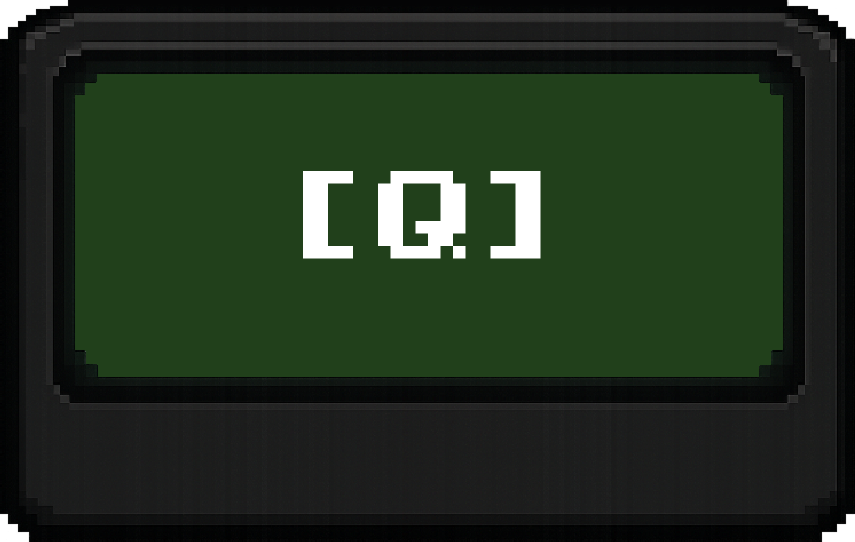
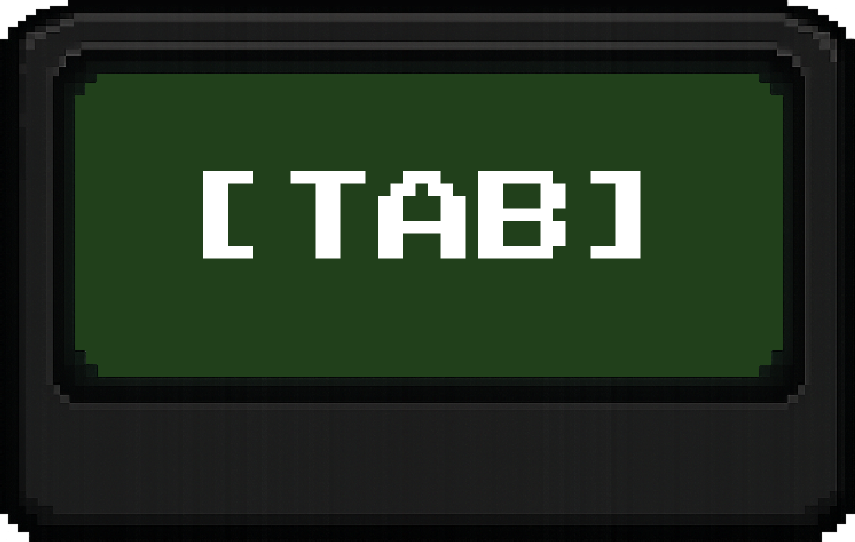
Guide Update: - Changed text in the image
Tutorial Update:
- Changed [Q] to [TAB] for Pager

Notifications Update:
- Changed [Q] to [TAB] for Pager

Changed region(s): [[0.3345, 0.2952, 0.7602, 0.5018], [0.2129, 0.2952, 0.3041, 0.5018]]

diff --git a/EarlyBirdGetsDaWorm/Tutorial.cpp b/EarlyBirdGetsDaWorm/Tutorial.cpp
@@ -137,9 +137,9 @@ void Tutorial_Initialize() {
 	tutFinished = false;
 
 	// Tutorial Dialogue Box
-	tutStartedBox = { 520.0f, 120.0f, 450.0f, 50.0f, false , 0.0f, 2.5f, 0.0f, "Great!\nPress [Q] to open your pager.", 25.0f, false};
+	tutStartedBox = { 520.0f, 120.0f, 450.0f, 50.0f, false , 0.0f, 2.5f, 0.0f, "Great!\nPress [TAB] to open your pager.", 25.0f, false};
 	tutPagerOpenedBox = { 600.0f, 310.0f, 400.0f, -150.0f, false , 0.0f, 2.5f, 0.0f, 
-		"This is your pager.\nIt shows :\n1. Patient Collection Room\n2. Patient Delivery Room\nPress [Q] again to close the pager.", 25.0f, false };
+		"This is your pager.\nIt shows :\n1. Patient Collection Room\n2. Patient Delivery Room\nPress [TAB] again to close the pager.", 25.0f, false };
 	tutPagerClosedBox = { 380.0f, 120.0f, 450.0f, 50.0f, false , 0.0f, 2.5f, 0.0f, "Now, go to the lift.\nPress [L] to use it.", 25.0f, false };
 	tutLiftOpenedBox = { 550.0f, 220.0f, 530.0f, -150.0f, false , 0.0f, 2.5f, 0.0f,
 		"This lift can travel from\nBasement 1 to Level 9.\nTo go to a level,\nClick [B1-9] to select a floor.", 25.0f, false };
@@ -284,7 +284,7 @@ void Tutorial_Update(f32 dt) {
 			case TUTORIAL_START: {
 				tutStarted = true;
 				DialogueBox_Update(tutStartedBox, dt, 400.0f);
-				if (curTutStage == TUTORIAL_START && AEInputCheckTriggered(AEVK_Q)) {
+				if (curTutStage == TUTORIAL_START && AEInputCheckTriggered(AEVK_TAB)) {
 					curTutStage = TUTORIAL_WAIT_FOR_PAGER_CLOSE;
 					tutStarted = false;
 				}
@@ -293,7 +293,7 @@ void Tutorial_Update(f32 dt) {
 			case TUTORIAL_WAIT_FOR_PAGER_CLOSE: {
 				tutPagerOpened = true;
 				DialogueBox_Update(tutPagerOpenedBox, dt, 350.0f);
-				if (curTutStage == TUTORIAL_WAIT_FOR_PAGER_CLOSE && AEInputCheckTriggered(AEVK_Q)) {
+				if (curTutStage == TUTORIAL_WAIT_FOR_PAGER_CLOSE && AEInputCheckTriggered(AEVK_TAB)) {
 					curTutStage = TUTORIAL_WAIT_FOR_LIFT_OPEN;
 					tutPagerOpened = false;
 				}
@@ -339,7 +339,7 @@ void Tutorial_Update(f32 dt) {
 			case TUTORIAL_END: {
 				tutPatientDelivered = true;
 				DialogueBox_Update(tutPatientDeliveredBox, dt, 400.0f);
-				if (curTutStage == TUTORIAL_END && AEInputCheckTriggered(AEVK_Q)) {
+				if (curTutStage == TUTORIAL_END && AEInputCheckTriggered(AEVK_TAB)) {
 					tutFinished = true;
 				}
 				break;
@@ -444,7 +444,7 @@ void Tutorial_Draw() {
 		const char* infoText{ "PRESS [SPACE] TO SKIP TEXT" };
 		// Change text when tutorial is ending
 		if (curTutStage == TUTORIAL_END) {
-			infoText = "PRESS [Q] TO END TUTORIAL";
+			infoText = "PRESS [TAB] TO END TUTORIAL";
 		}
 		f32 infoX{ textPosition(-220.0f, -380.0f).first },
 			infoY{ textPosition(-220.0f, -380.0f).second };
@@ -456,7 +456,7 @@ void Tutorial_Draw() {
 				tutStartedBox.tutFullText,
 				(size_t)tutStartedBox.tutVisibleCharCount
 			);
-			Tutorial_Text_Draw(visibleText.c_str(), -230.0f + tutStartedBox.tutBGX, 15.0f + tutStartedBox.tutBGY, tutStartedBox.dialogueFadeAlpha);
+			Tutorial_Text_Draw(visibleText.c_str(), -240.0f + tutStartedBox.tutBGX, 15.0f + tutStartedBox.tutBGY, tutStartedBox.dialogueFadeAlpha);
 		}
 		if (tutPagerOpened) {
 			DrawDialogueBoxBackground(tutPagerOpenedBox);
@@ -464,7 +464,7 @@ void Tutorial_Draw() {
 				tutPagerOpenedBox.tutFullText,
 				(size_t)tutPagerOpenedBox.tutVisibleCharCount
 			);
-			Tutorial_Text_Draw(visibleText.c_str(), -270.0f + tutPagerOpenedBox.tutBGX, 95.0f + tutPagerOpenedBox.tutBGY, tutPagerOpenedBox.dialogueFadeAlpha);
+			Tutorial_Text_Draw(visibleText.c_str(), -280.0f + tutPagerOpenedBox.tutBGX, 95.0f + tutPagerOpenedBox.tutBGY, tutPagerOpenedBox.dialogueFadeAlpha);
 		}
 		if (tutPagerClosed) {
 			DrawDialogueBoxBackground(tutPagerClosedBox);

diff --git a/EarlyBirdGetsDaWorm/Notifications.cpp b/EarlyBirdGetsDaWorm/Notifications.cpp
@@ -91,7 +91,7 @@ void Notifications_Trigger()
 void Notifications_Update(bool liftActive, f32 dt)
 {
 	// Toggles the pager when user press Q, pager will not be displayed if lift is active
-	if (AEInputCheckTriggered(AEVK_Q) && !liftActive)
+	if (AEInputCheckTriggered(AEVK_TAB) && !liftActive)
 	{
 		isPagerOpen = !isPagerOpen;
 	}
@@ -138,7 +138,7 @@ void Notifications_Update(bool liftActive, f32 dt)
 	}
 
 	if (pagerFirstPop) {
-		if (AEInputCheckTriggered(AEVK_Q) && !liftActive) {
+		if (AEInputCheckTriggered(AEVK_TAB) && !liftActive) {
 			pagerFirstPop = false;
 		}
 	}
@@ -208,7 +208,7 @@ void Notifications_Draw(s8 patientDoorNum, s8 patientFloorNum, s8 desDoorNum, s8
 		if (pagerFirstPop) {
 			f32 infoX{ textPosition(-220.0f, -380.0f).first },
 				infoY{ textPosition(-220.0f, -380.0f).second };
-			AEGfxPrint(lineID, "PRESS [Q] TO CLOSE PAGER", infoX, infoY, 1.0f, 1.0f, 1.0f, 1.0f, 1.0f);
+			AEGfxPrint(lineID, "PRESS [TAB] TO CLOSE PAGER", infoX, infoY, 1.0f, 1.0f, 1.0f, 1.0f, 1.0f);
 		}
 	}
 
